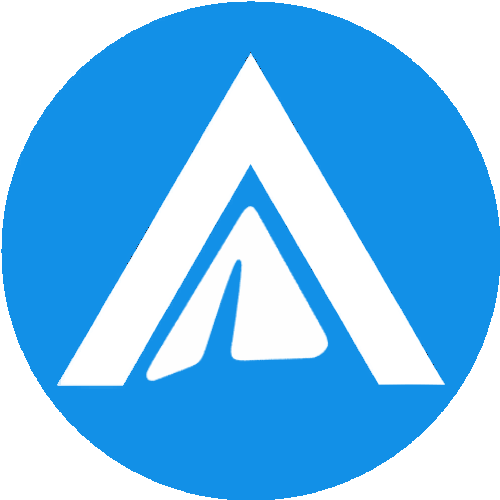
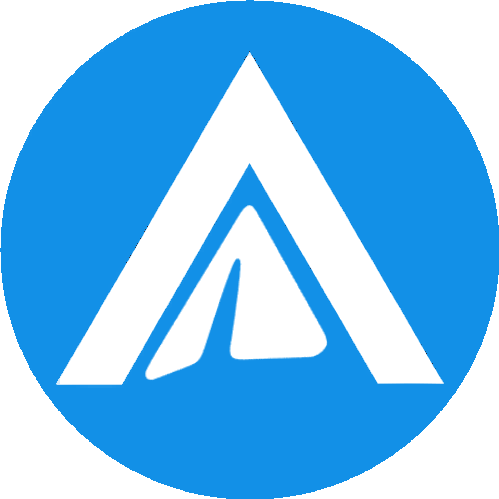
fix: remove white background from thumbnail, move screenshots to top of README

diff --git a/README.md b/README.md
@@ -1,15 +1,27 @@
 <p align="center">
-  <img src="Screenshots/thumbnail.png" alt="Agent Zero Telegram Mini App" width="200">
+  <img src="Screenshots/thumbnail.png" alt="Agent Zero Telegram Mini App" width="160">
 </p>
 
-# Agent Zero Telegram Mini App
+<h1 align="center">Agent Zero Telegram Mini App</h1>
 
-> Your Agent Zero control panel, inside Telegram. Chat, monitor, configure, shell in — no browser needed.
+<p align="center">
+  <em>Your Agent Zero control panel, inside Telegram. Chat, monitor, configure, shell in — no browser needed.</em>
+</p>
 
-![License](https://img.shields.io/badge/license-MIT-blue.svg)
-![Agent Zero](https://img.shields.io/badge/agent--zero-compatible-green.svg)
-![Platform](https://img.shields.io/badge/platform-Telegram%20Mini%20App-2CA5E0.svg)
-![Build](https://img.shields.io/badge/build-none%20%28single%20file%29-lightgrey.svg)
+<p align="center">
+  <img src="https://img.shields.io/badge/license-MIT-blue.svg" alt="License">
+  <img src="https://img.shields.io/badge/agent--zero-compatible-green.svg" alt="Agent Zero">
+  <img src="https://img.shields.io/badge/platform-Telegram%20Mini%20App-2CA5E0.svg" alt="Platform">
+  <img src="https://img.shields.io/badge/build-none%20%28single%20file%29-lightgrey.svg" alt="Build">
+</p>
+
+---
+
+<p align="center">
+  <img src="Screenshots/CleanShot%202026-04-13%20at%2002.56.35%402x.png" alt="Chat view" width="270">
+  <img src="Screenshots/CleanShot%202026-04-13%20at%2003.28.40%402x.png" alt="Activity feed" width="270">
+  <img src="Screenshots/CleanShot%202026-04-13%20at%2003.29.24%402x.png" alt="Shell access" width="270">
+</p>
 
 ---
 
@@ -147,16 +159,6 @@ Open your bot and tap the menu button. Done.
 | CORS error / app won't load | Add `https://web.telegram.org` to `ALLOWED_ORIGINS` in `usr/.env` |
 | "Open from Telegram" message | Must be opened inside Telegram — `initData` doesn't exist in regular browsers |
 | Shell returns "Shell not available" | Confirm plugin is in `usr/plugins/_miniapp/` and restart A0 |
-
----
-
-## Screenshots
-
-<p align="center">
-  <img src="Screenshots/CleanShot%202026-04-13%20at%2002.56.35%402x.png" alt="Chat view" width="300">
-  <img src="Screenshots/CleanShot%202026-04-13%20at%2003.28.40%402x.png" alt="Activity feed" width="300">
-  <img src="Screenshots/CleanShot%202026-04-13%20at%2003.29.24%402x.png" alt="Shell access" width="300">
-</p>
 
 ---
 
